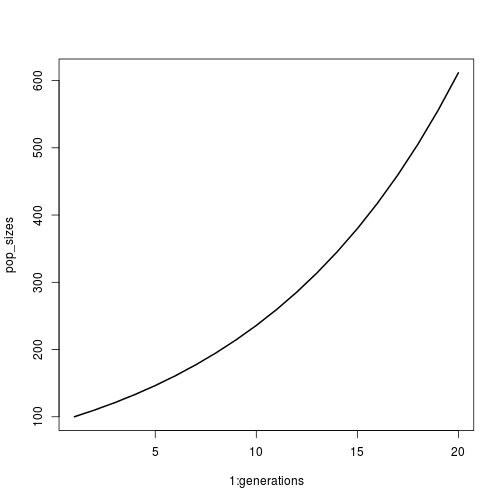
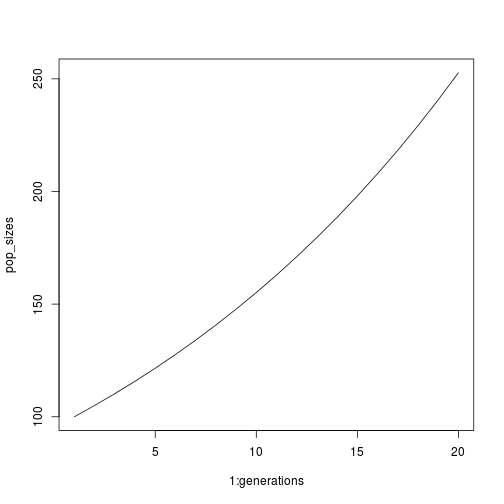
compare hacky multi_plot() to matplot()

diff --git a/lloyd_smith/in_class.md b/lloyd_smith/in_class.md
@@ -131,6 +131,13 @@ multi_plot(m = trajectories); multi_plot(m = trajectories, log = F)
 ![plot of chunk unnamed-chunk-2](figure/unnamed-chunk-2-2.png) ![plot of chunk unnamed-chunk-2](figure/unnamed-chunk-2-3.png) 
 
 ```r
+# Easier to do this with matplot()
+matplot(y = log(trajectories), x = c(1:nrow(trajectories)), pch = 19, type = "l")
+```
+
+![plot of chunk unnamed-chunk-2](figure/unnamed-chunk-2-4.png) 
+
+```r
 # Try this in ggplot2 at some point
 ```
 
